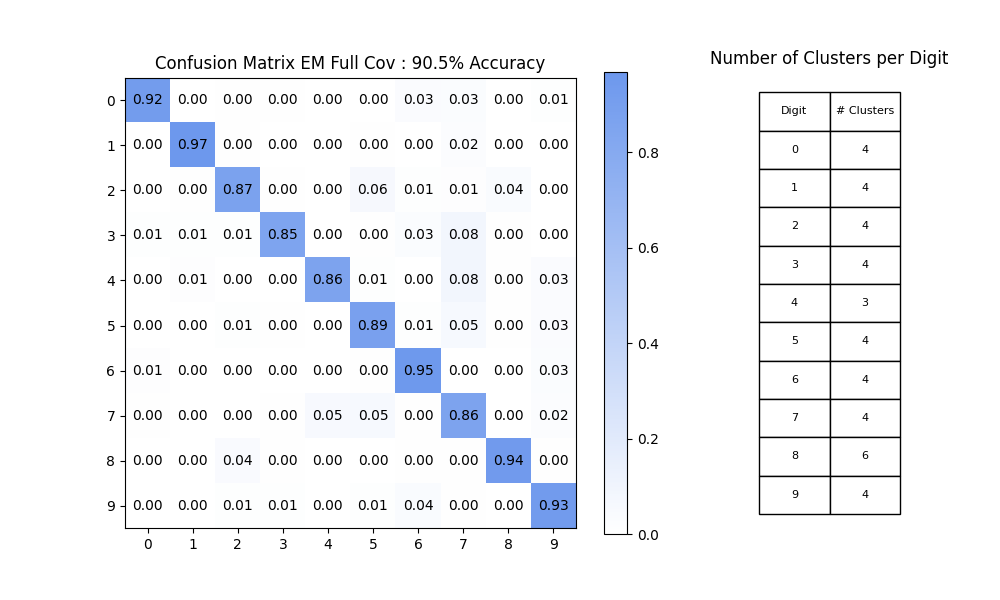
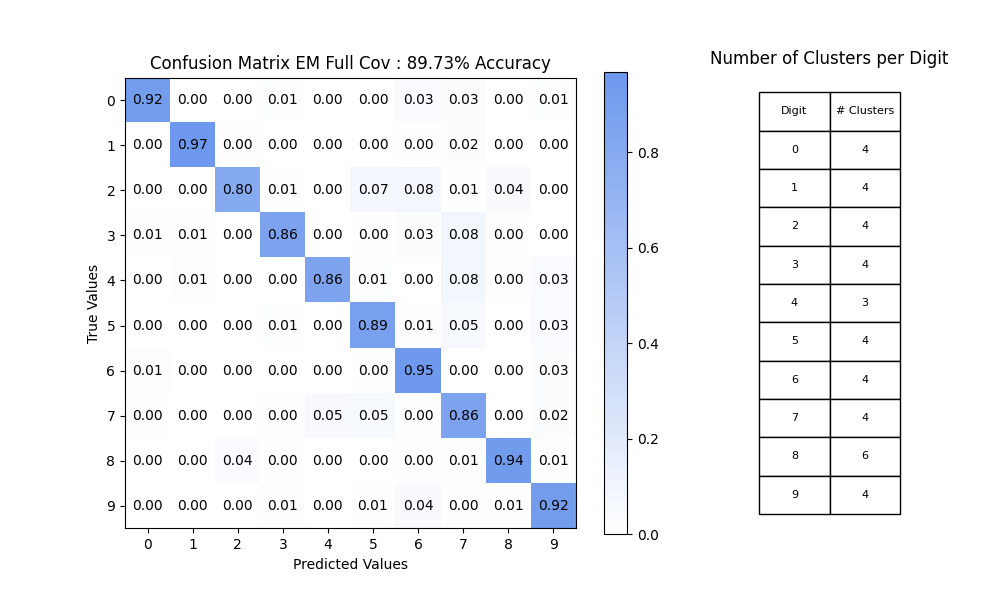
refactored so all config in main, created frame sampling for data parsing

diff --git a/src/analysis.py b/src/analysis.py
@@ -2,12 +2,12 @@ from itertools import combinations
 
 import numpy as np
 from matplotlib import pyplot as plt
+from sklearn.feature_selection import f_classif, SelectKBest
 
 from src.data_clustering import perform_k_means, perform_em
 from src.gmm import generate_model, determine_category, likelihood_all_digits, Method
 from src.plot_util import plot_clusters, plot_mfccs_subplots_single_utterance, \
     plot_analysis_window_function_single_utterance, plot_kde, plot_confusion_matrix
-from src.data_parser import mfcc_indices, phoneme_nums
 
 
 def generate_mfccs_analysis(block_num, num_coeffs, gender, data):
@@ -30,24 +30,22 @@ def generate_log_likelihood_analysis(digit, data, tokens, method, cov_type):
     plt.show()
 
 
-def generate_data_clustering_analysis(tokens, method, cov_type):
-    for digit, coeffs in enumerate(tokens):
+def generate_data_clustering_analysis(tokens, phoneme_clusters, method, cov_type):
+    for digit, utterances in enumerate(tokens):
         if method == Method.K_MEANS:
-            clusters = perform_k_means(coeffs, phoneme_nums[digit], cov_type)
+            clusters = perform_k_means(utterances, phoneme_clusters[digit], cov_type)
         else:
-            clusters = perform_em(coeffs, phoneme_nums[digit], cov_type)
+            clusters = perform_em(utterances, phoneme_clusters[digit], cov_type)
         plot_clusters(clusters, digit)
 
 
-def generate_confusion_matrix(tokens, testing_data, method, cov_type):
-    overall_accuracy, confusion_matrix = calculate_accuracy(tokens, testing_data, method, cov_type)
-    plot_confusion_matrix(confusion_matrix, overall_accuracy, phoneme_nums,
-                          f"{method.value} {cov_type.value.title()} Cov",
-                          f"cm-{method.value}-{cov_type.value.title()}-{len(mfcc_indices)}coeffs-table{np.prod(np.multiply(phoneme_nums, np.arange(1, 11)))}")
+def generate_confusion_matrix(tokens, testing_data, phoneme_clusters, method, cov_type, title, filename):
+    overall_accuracy, confusion_matrix = calculate_accuracy(tokens, testing_data, phoneme_clusters, method, cov_type)
+    plot_confusion_matrix(confusion_matrix, overall_accuracy, phoneme_clusters, title, filename)
 
 
-def calculate_accuracy(tokens, testing_data, method, cov_type):
-    model = generate_model(tokens, method, cov_type)
+def calculate_accuracy(tokens, testing_data, phoneme_clusters, method, cov_type):
+    model = generate_model(tokens, phoneme_clusters, method, cov_type)
     confusion_matrix = np.zeros((10, 10))
     total_correct = 0
     for actual in range(10):
@@ -62,5 +60,14 @@ def calculate_accuracy(tokens, testing_data, method, cov_type):
     return overall_accuracy, confusion_matrix
 
 
-def determine_optimal_coeffs():
-    pass
+def determine_optimal_coeffs(data, k):
+    x = []
+    y = []
+    for digit in range(10):
+        d = data[digit]["male"] + data[digit]["female"]
+        for utterance in d:
+            x.append(utterance)
+            y.append(digit)
+    selector = SelectKBest(f_classif, k=k)
+    selector.fit_transform(x, y)
+    return selector.get_support(indices=True)

diff --git a/main.py b/main.py
@@ -1,10 +1,26 @@
-from src.analysis import generate_log_likelihood_analysis, generate_mfccs_analysis, generate_confusion_matrix, generate_data_clustering_analysis
-from src.data_parser import training_data, training_tokens, test_data
+import numpy as np
+from sklearn.feature_selection import f_classif, SelectKBest, mutual_info_classif
+from src.analysis import generate_log_likelihood_analysis, generate_mfccs_analysis, generate_confusion_matrix, \
+    generate_data_clustering_analysis, determine_optimal_coeffs
+from src.data_parser import load_data, extract_tokens
 from src.gmm import Method
 from src.cov_util import Cov
 
+# Number of phonemes in each digit and the indices of the MFCCs
+# highest accuracy:
+phoneme_nums = [4, 4, 5, 4, 3, 4, 4, 4, 6, 4]
+mfcc_indices = [0, 1, 2, 3, 4, 5, 6, 7, 8, 9, 10, 11]
+
+# phoneme_nums = [4, 4, 5, 4, 4, 4, 4, 5, 6, 4]
+# mfcc_indices = [0, 1, 2, 3, 4, 5, 6, 7, 8, 9, 10, 11]
+
+
 if __name__ == "__main__":
     print("Running analysis.. this may take a while.")
+    training_data = load_data("./data/resources/Train_Arabic_Digit.txt", 660, 1, mfcc_indices)
+    test_data = load_data("./data/resources/Test_Arabic_Digit.txt", 220, 1, mfcc_indices)
+    training_tokens = extract_tokens(training_data)
+    test_tokens = extract_tokens(test_data)
     # Generate plots for analysis frame and sub-dimension of tokens
     # generate_mfccs_analysis(0, 3, "male", training_data)
 
@@ -16,5 +32,10 @@ if __name__ == "__main__":
     # generate_data_clustering_analysis(training_tokens, Method.E_M, Cov.FULL)
 
     # Generate confusion matrix for accuracy analysis
-    generate_confusion_matrix(training_tokens, test_data, Method.K_MEANS, Cov.FULL)
+    table_hash = np.prod(np.multiply(phoneme_nums, np.arange(1, 11)))
+    filename = f"cm-Test-{Method.E_M.value}-{Cov.FULL.value.title()}-{len(mfcc_indices)}coeffs-table{table_hash}"
+    title = f"Test {Method.E_M.value} {Cov.FULL.value.title()} Cov"
+    generate_confusion_matrix(training_tokens, test_data, phoneme_nums, Method.E_M, Cov.FULL, title, filename)
+    # generate_confusion_matrix(training_tokens, training_data, Method.E_M, Cov.FULL, "Training")
+    # print(determine_optimal_coeffs(training_data, 6))
     print("Done!")

diff --git a/src/data_parser.py b/src/data_parser.py
@@ -1,12 +1,10 @@
 import numpy as np
 
-# Number of phonemes in each digit and the indices of the MFCCs
-phoneme_nums = [4, 4, 4, 4, 3, 4, 4, 4, 6, 4]
-mfcc_indices = [0, 1, 2, 3, 4, 5, 6, 7, 8, 9, 10, 11]
-
 
 # Returns a general form of the data, separated by digit, then gender, and then block
-def parse(name, num_blocks):
+def load_data(name, num_blocks, frame_sampling_rate=1, features=None):
+    if features is None:
+        features = [0, 1, 2, 3, 4, 5, 6, 7, 8, 9, 10, 11]
     data = {}
     text_blocks = []
     current_block = ""
@@ -28,27 +26,27 @@ def parse(name, num_blocks):
             data[digit] = {}
         if gender not in data[digit]:
             data[digit][gender] = []
-        entries = [[float(entry) for entry in np.array(line.split(" "))[mfcc_indices]] for line in block.split("\n")]
+        entries = [[float(entry) for entry in np.array(line.split(" "))[features]] for i, line in
+                   enumerate(block.split("\n"))
+                   if (i + 1) % frame_sampling_rate == 0]
         data[digit][gender].append(entries)
-        # data[digit][gender].append([[float(entry) for entry in line.split(" ")] for line in block.split("\n")])
     return data
 
 
 # Extracts all tokens into a single list
-def extract_tokens(data, indices):
+def extract_tokens(data):
     mfccs = [[] for _ in range(10)]
     for digit in data:
         for block in data[digit]["male"]:
             mfccs[digit].extend(block)
         for block in data[digit]["female"]:
             mfccs[digit].extend(block)
-        # mfccs[digit] = extract_coeffs(mfccs[digit], indices)
     return mfccs
 
 
 # Separates a list of tokens into a 2D tuple of MFCCs separated by their index
-def unzip_tokens(tokens):
-    return tuple(zip(*tokens))
+def unzip_frames(token):
+    return tuple(zip(*token))
 
 
 def extract_coeffs(tokens, indices):
@@ -56,7 +54,4 @@ def extract_coeffs(tokens, indices):
     return tokens[:, indices]
 
 
-training_data = parse("./data/resources/Train_Arabic_Digit.txt", 660)
-test_data = parse("./data/resources/Test_Arabic_Digit.txt", 220)
-training_tokens = extract_tokens(training_data, mfcc_indices)
-test_tokens = extract_tokens(test_data, mfcc_indices)
+

diff --git a/src/plot_util.py b/src/plot_util.py
@@ -2,7 +2,7 @@ import matplotlib.pyplot as plt
 import numpy as np
 from scipy.stats import multivariate_normal
 from sklearn.neighbors import KernelDensity
-from src.data_parser import unzip_tokens
+from src.data_parser import unzip_frames
 from matplotlib.colors import LinearSegmentedColormap
 
 plotting_colors = ['red', 'green', 'blue', 'orange', 'yellow', 'brown', 'black']
@@ -34,7 +34,7 @@ def mfccs_subplots(mfccs, plotting_pairs, ax, s=10.0, alpha=1.0, color='blue', l
 
 def plot_mfccs_subplots_single_utterance(utterance, plotting_pairs, digit, gender, num):
     fig, ax = plt.subplots(1, len(plotting_pairs), figsize=(12, 6))
-    mfccs_subplots(unzip_tokens(utterance), plotting_pairs, ax)
+    mfccs_subplots(unzip_frames(utterance), plotting_pairs, ax)
     fig.suptitle("Single Utterance of " + str(digit) + ", " + gender + " num " + str(num))
     plt.tight_layout()
     fig.savefig("single_utterance_mfccs_plots/" + gender + "_num" + str(num) + "_digit" + str(digit) + "_mfccs.png")
@@ -74,7 +74,7 @@ def plot_clusters(clusters, digit):
     fig, ax = plt.subplots(1, 3, figsize=(12, 6))
     index = 0
     for cluster in clusters:
-        mfccs = unzip_tokens(cluster["points"])
+        mfccs = unzip_frames(cluster["points"])
         mfccs_subplots(mfccs, [[1, 0], [2, 0], [2, 1]], ax, s=0.1, alpha=0.7, color=plotting_colors[index],
                        label="phoneme cluster " + str(index + 1))
         mfccs_contours(cluster["mean"], cluster["cov"], [[1, 0], [2, 0], [2, 1]], ax, plotting_colors[index])
@@ -99,8 +99,8 @@ def plot_confusion_matrix(confusion_matrix, overall_accuracy, cluster_counts, ti
     ax_matrix.set_xticklabels([str(i) for i in range(10)])
     ax_matrix.set_yticklabels([str(i) for i in range(10)])
 
-    plt.xlabel("Predicted Values")
-    plt.ylabel("True Values")
+    ax_matrix.set_xlabel("Predicted Values")
+    ax_matrix.set_ylabel("True Values")
 
     for i in range(10):
         for j in range(10):

diff --git a/src/gmm.py b/src/gmm.py
@@ -1,7 +1,6 @@
 from enum import Enum
 
 from src.data_clustering import perform_k_means, perform_em
-from src.data_parser import phoneme_nums
 from scipy.stats import multivariate_normal
 import numpy as np
 from src.cov_util import Cov
@@ -12,10 +11,10 @@ class Method(Enum):
     E_M = "EM"
 
 
-def create_gmm(digit, tokens, method=Method.K_MEANS, cov_type=Cov.FULL):
+def create_gmm(tokens, n_clusters, method=Method.K_MEANS, cov_type=Cov.FULL):
     if method == Method.E_M:
-        return perform_em(tokens, phoneme_nums[digit], covariance_type=cov_type)
-    return perform_k_means(tokens, phoneme_nums[digit], covariance_type=cov_type)
+        return perform_em(tokens, n_clusters, covariance_type=cov_type)
+    return perform_k_means(tokens, n_clusters, covariance_type=cov_type)
 
 
 def gmm_likelihood(gmm, utterance):
@@ -43,8 +42,8 @@ def likelihood_all_digits(digit, data, tokens, method=Method.K_MEANS, cov_type=C
     return likelihoods
 
 
-def generate_model(tokens, method=Method.K_MEANS, cov_type=Cov.FULL):
-    return [create_gmm(i, tokens[i], method, cov_type) for i in range(10)]
+def generate_model(tokens, cluster_nums, method=Method.K_MEANS, cov_type=Cov.FULL):
+    return [create_gmm(tokens[i], cluster_nums[i], method, cov_type) for i in range(10)]
 
 
 def determine_category(utterance, model):

diff --git a/src/data_clustering.py b/src/data_clustering.py
@@ -27,7 +27,7 @@ def perform_k_means(data, n, covariance_type=Cov.FULL):
 
 def perform_em(data, n, covariance_type=Cov.FULL):
     data = np.array(data)
-    gm = GaussianMixture(n_components=n, covariance_type=covariance_type.value).fit(data)
+    gm = GaussianMixture(n_components=n, covariance_type=covariance_type.value, random_state=rand).fit(data)
     labels = gm.predict(data)
     unique_labels = np.unique(labels)
     points = [data[labels == label] for label in unique_labels]

diff --git a/src/cov_util.py b/src/cov_util.py
@@ -6,7 +6,7 @@ class Cov(Enum):
     FULL = "full"
     DIAG = "diag"
     SPHERICAL = "spherical"
-    TIED_FULL = "tied"
+    TIED_FULL = "tied full"
     TIED_DIAG = "tied diag"
     TIED_SPHERICAL = "tied spherical"
 
